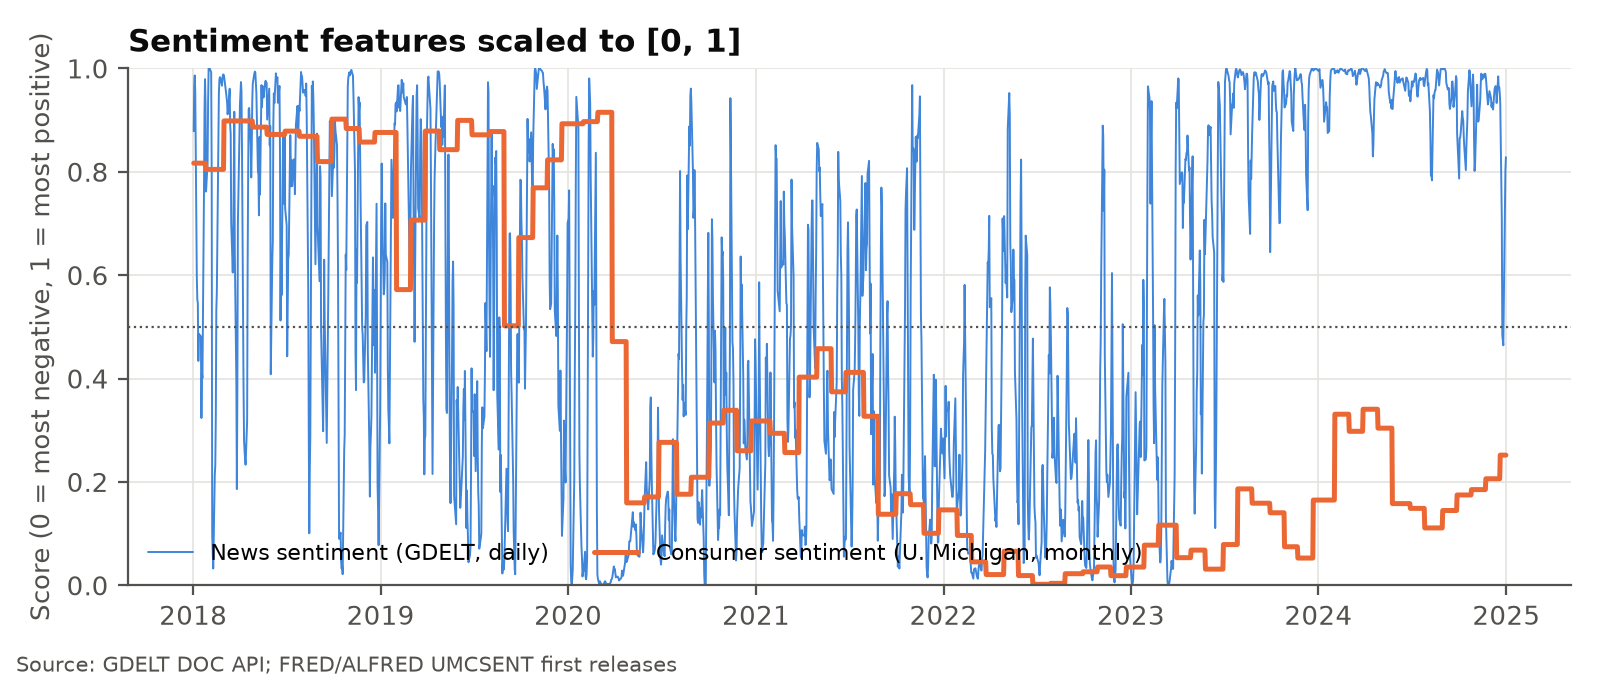
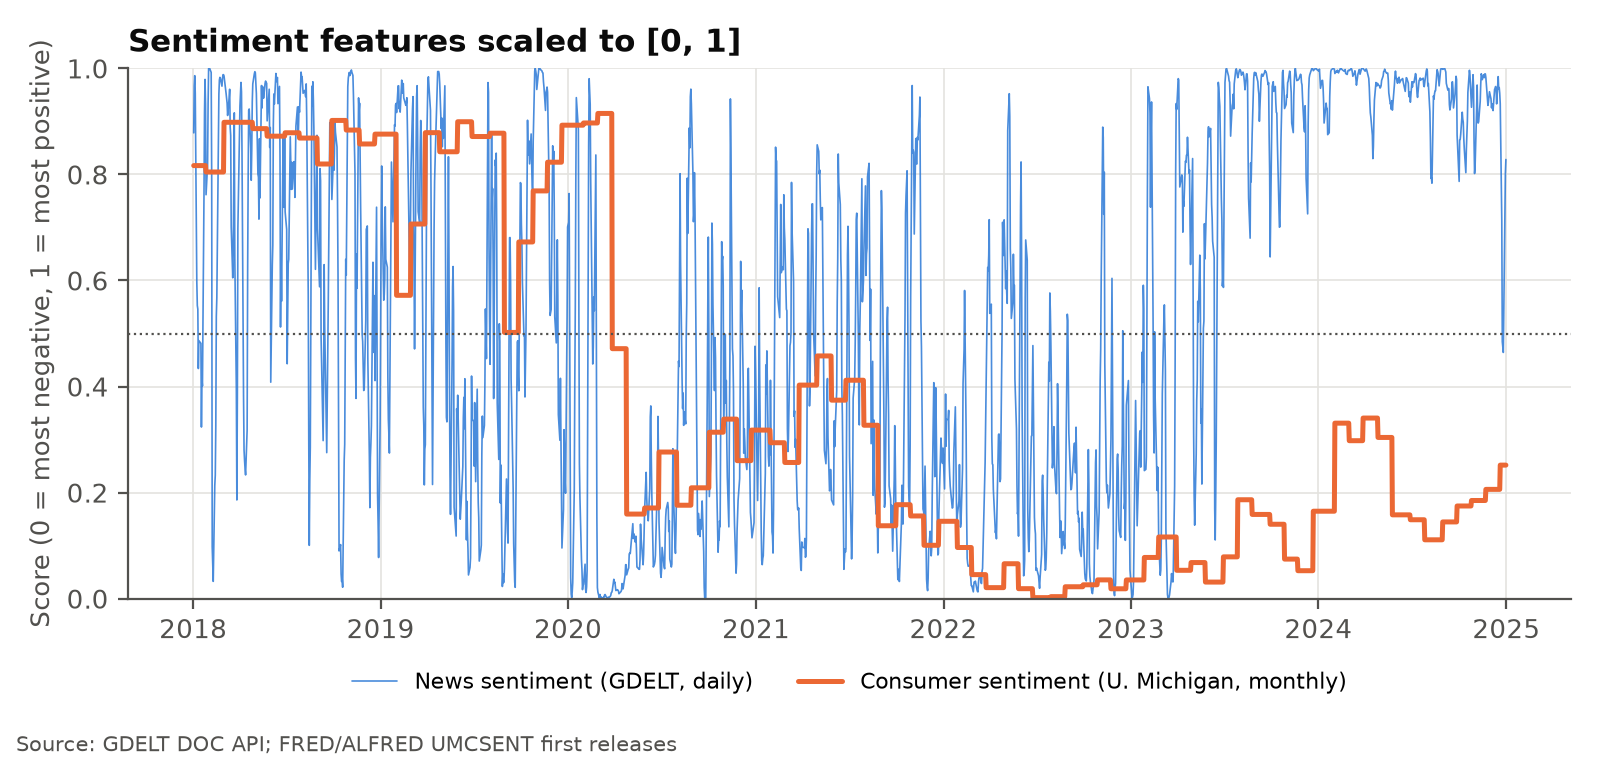
Week 2: latest action versions, sentiment figure layout, more report numbers

diff --git a/src/pipeline/run.py b/src/pipeline/run.py
@@ -142,6 +142,23 @@ def main() -> None:
         "sentnewsmean": f"{df.sent_news.mean():.2f}", "sentconsmean": f"{df.sent_consumer.mean():.2f}",
         "datasethash": frame_hash(df),
     }
+    feats = list(FEATURES)
+    cm = df[feats].corr().abs().where(~np.eye(len(feats), dtype=bool)).stack().sort_values(ascending=False)
+    (fa, fb), top = cm.index[0], cm.iloc[0]
+    tone = raw.gdelt.tone
+    by_year = tone.groupby(tone.index.year).mean()
+    stats.update({
+        "maxcorr": f"{top:.3f}", "maxcorrpair": f"\\texttt{{{fa}}} and \\texttt{{{fb}}}".replace("_", "\\_"),
+        "flagsonefiveshare": f"{outliers['k1.5']['share']*100:.1f}",
+        "weeklymatched": outliers["weekly_crosscheck"]["matched"],
+        "reversalsconfirmed": outliers["spike_reversals_confirmed_by_vix"],
+        "gapmeandiffdgsone": f"{gaps['DGS1']['mean_abs_diff_ffill_vs_linear_pp']:.3f}",
+        "gapmaxdiffdgsone": f"{gaps['DGS1']['max_abs_diff_ffill_vs_linear_pp']:.3f}",
+        "gdeltdays": len(raw.gdelt), "gdeltarticlesmedian": int(raw.gdelt.articles.median()),
+        "tonetwentyfour": f"{by_year.loc[2024]:+.2f}", "toneprevmax": f"{by_year.loc[:2023].max():+.2f}",
+        "anchorrsameday": f"{pd.read_csv(RAW_DIR / 'fred_daily.csv', index_col='date', parse_dates=True).loc[t, 'DGS1']:.2f}",
+        "warmuprows": int((raw.jpm.index < START_DATE).sum()),
+    })
     (DOC_DIR / "week2_numbers.tex").write_text(numbers_tex(stats))
     (DOC_DIR / "week2_stats.json").write_text(json.dumps(stats, indent=2))
     print(f"Wrote {PARQUET.relative_to(ROOT)}, {CSV.relative_to(ROOT)} and logs; hash {frame_hash(df)}")

diff --git a/src/week2_figures.py b/src/week2_figures.py
@@ -104,14 +104,14 @@ def fig_vol(df):
 
 
 def fig_sentiment(df):
-    fig, ax = plt.subplots(figsize=(8, 3.4))
-    ax.plot(df.index, df.sent_news, color=C[0], lw=0.7, alpha=0.9, label="News sentiment (GDELT, daily)")
+    fig, ax = plt.subplots(figsize=(8, 3.8))
+    ax.plot(df.index, df.sent_news, color=C[0], lw=0.6, alpha=0.85, label="News sentiment (GDELT, daily)")
     ax.plot(df.index, df.sent_consumer, color=C[1], lw=1.8, label="Consumer sentiment (U. Michigan, monthly)")
     ax.axhline(0.5, color=INK2, lw=0.8, ls=":")
     ax.set_ylim(0, 1)
     ax.set_ylabel("Score (0 = most negative, 1 = most positive)")
     ax.set_title("Sentiment features scaled to [0, 1]")
-    ax.legend(loc="lower left", fontsize=8, ncol=2)
+    ax.legend(loc="upper center", bbox_to_anchor=(0.5, -0.1), fontsize=8, ncol=2)
     _years(ax)
     _save(fig, "fig4_sentiment.png", "GDELT DOC API; FRED/ALFRED UMCSENT first releases")
 

diff --git a/deliverables/week2/week2_numbers.tex b/deliverables/week2/week2_numbers.tex
@@ -20,3 +20,16 @@
 \newcommand{\wSentnewsmean}{0.56}
 \newcommand{\wSentconsmean}{0.38}
 \newcommand{\wDatasethash}{421e8da279fe6b5d}
+\newcommand{\wMaxcorr}{0.996}
+\newcommand{\wMaxcorrpair}{\texttt{r\_6m} and \texttt{r\_3m}}
+\newcommand{\wFlagsonefiveshare}{5.3}
+\newcommand{\wWeeklymatched}{365}
+\newcommand{\wReversalsconfirmed}{2}
+\newcommand{\wGapmeandiffdgsone}{0.014}
+\newcommand{\wGapmaxdiffdgsone}{0.045}
+\newcommand{\wGdeltdays}{2,918}
+\newcommand{\wGdeltarticlesmedian}{321}
+\newcommand{\wTonetwentyfour}{+0.91}
+\newcommand{\wToneprevmax}{+0.05}
+\newcommand{\wAnchorrsameday}{0.07}
+\newcommand{\wWarmuprows}{631}
